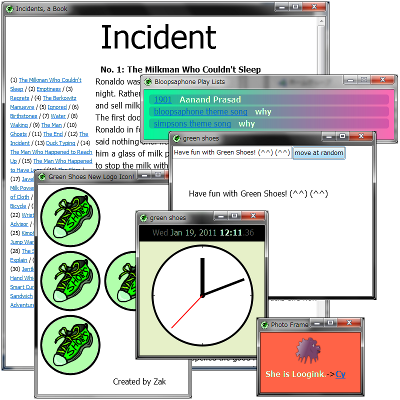
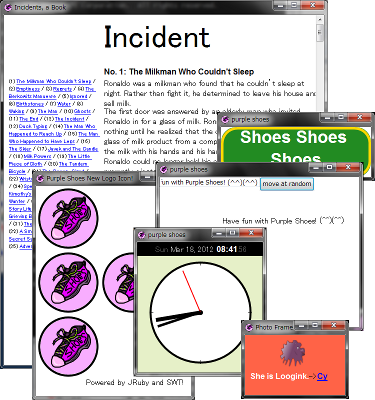
Replaced a few snapshots for built-in manual.

diff --git a/README.md b/README.md
@@ -6,7 +6,7 @@ Porting [Green Shoes](https://github.com/ashbb/green_shoes) with **JRuby** and *
 Install JRuby and SWT for Windows
 ----------------------------------
 
-- download [JRuby 1.6.6 Windows Executable](http://jruby.org/download)
+- download [JRuby 1.6.7 Windows Executable](http://jruby.org/download)
 - install JRuby into c:\jruby
 - cd c:\jruby
 - C:\jruby>jruby --1.9 c:\jruby\bin\gem install swt
